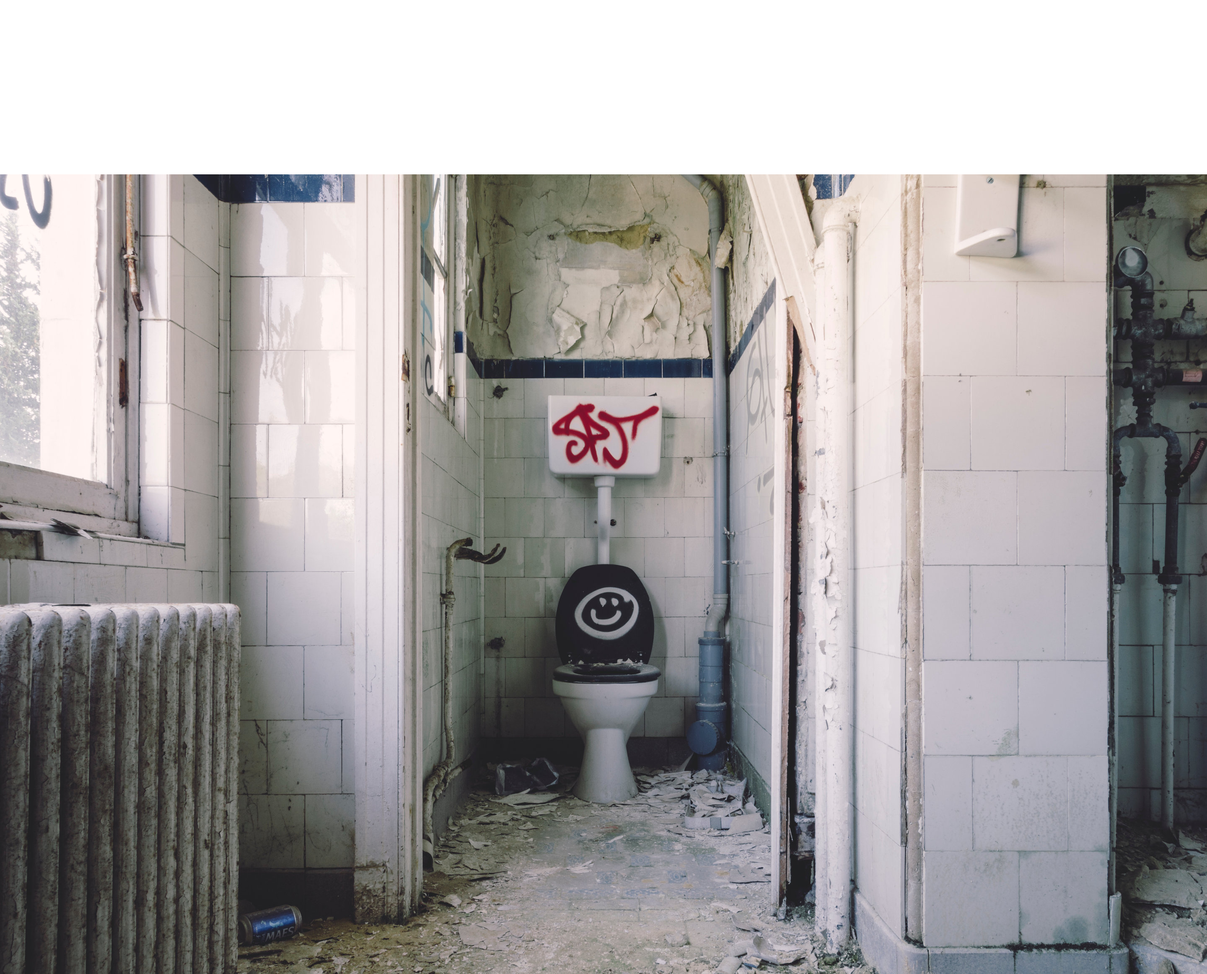
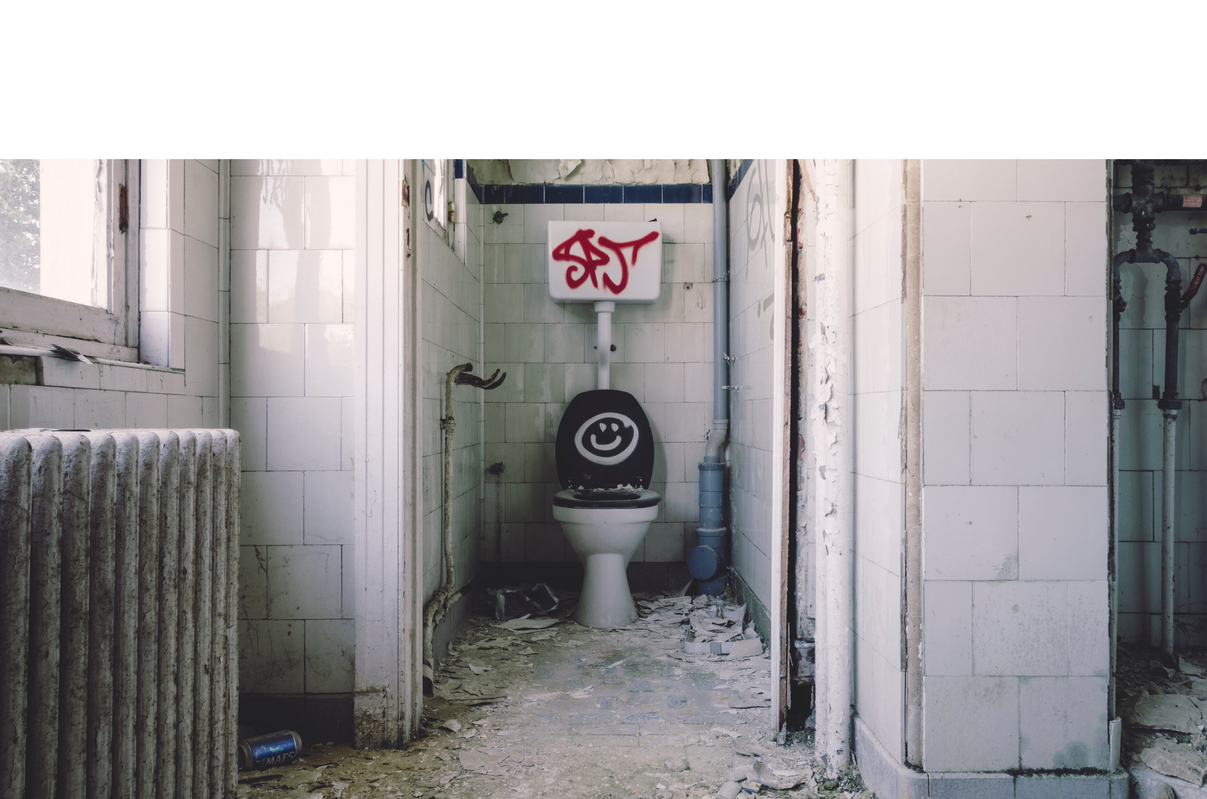
white space on top of frontpage image again...

diff --git a/css/custom.css b/css/custom.css
@@ -23,8 +23,7 @@ p {
 }
 
 header {
-    margin-top: 100;
-    position: relative;
+    position: relative; 
     width: 100%;
     min-height: auto;
     text-align: center;
